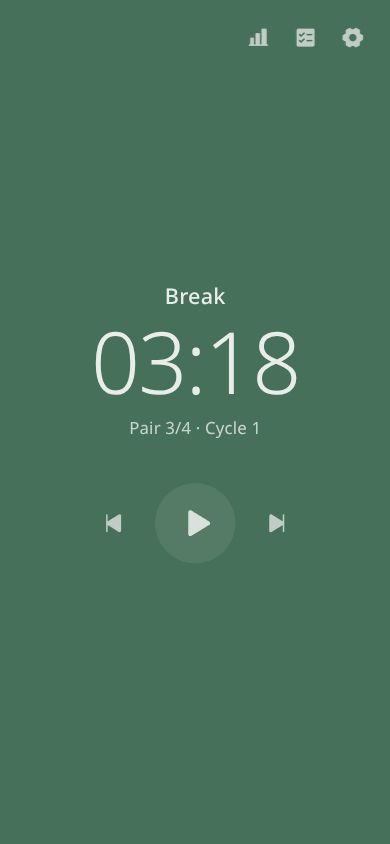
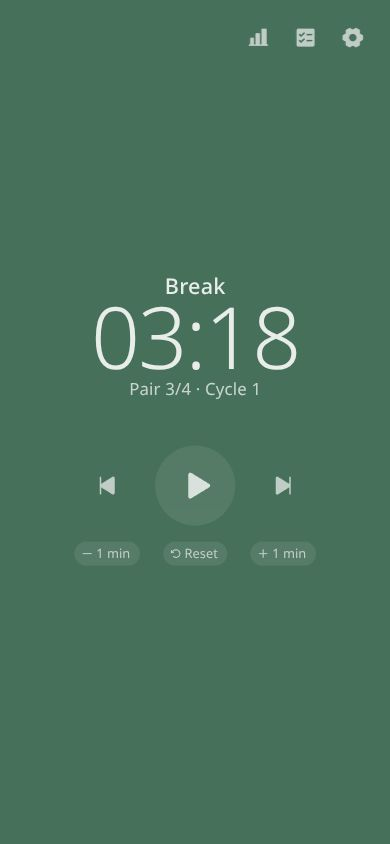
README: adjust row, task field menu, hover hints, animation off; fresh screenshots

diff --git a/README.md b/README.md
@@ -18,11 +18,11 @@ By default you focus for 25 minutes, then take a 5-minute break. Every 4th break
 
 The page and the tab icon take the color of the current step. When a step ends you hear a digital-alarm beep, pitched differently for each step. You can also get a browser notification when the tab is in the background.
 
-Under the controls you can add or take off a minute, or restart the current step. The next step waits until you press play, unless you turn on auto-start. Each new day starts again from the first focus step.
+Below the play button you can take a minute off, add one, or restart the current step. The next step waits until you press play, unless you turn on auto-start. Each new day starts again from the first focus step.
 
 ### Tasks
 
-You can keep a to-do list under the timer and hide it when you don't need it. Tasks can be edited or deleted one at a time, and the ⋯ menu clears completed, incomplete or all tasks at once. A checked-off task records the time and the step you finished it in, and it stays counted in your report even after you delete it. The list exports and imports as a Markdown checklist.
+You can keep a to-do list under the timer and hide it when you don't need it. Tasks can be edited or deleted one at a time, and the ⋯ button in the task field clears completed, incomplete or all tasks at once. A checked-off task records the time and the step you finished it in, and it stays counted in your report even after you delete it. The list exports and imports as a Markdown checklist.
 
 ### Personal report
 
@@ -30,7 +30,7 @@ The report shows your streak, focus and break time, pomodori finished and tasks 
 
 ### Settings
 
-You can change colors, the font, the timer's weight and style, animation speed, alarm and click pitches, and separate volumes for the alarm and clicks. Settings export to a JSON file you can load in another browser, and one button puts everything back to the defaults. On a phone, Settings and the report open full screen.
+You can change colors, the font, the timer's weight and style, animation speed (or turn animations off), alarm and click pitches, and separate volumes for the alarm and clicks. Settings export to a JSON file you can load in another browser, and one button puts everything back to the defaults. On a phone, Settings and the report open full screen.
 
 ## Keyboard
 
@@ -45,6 +45,8 @@ You can change colors, the font, the timer's weight and style, animation speed, 
 | I | Settings |
 | R | Report |
 | ? | List of shortcuts |
+
+Hover over any button to see its name and shortcut.
 
 ## Run it yourself
 
